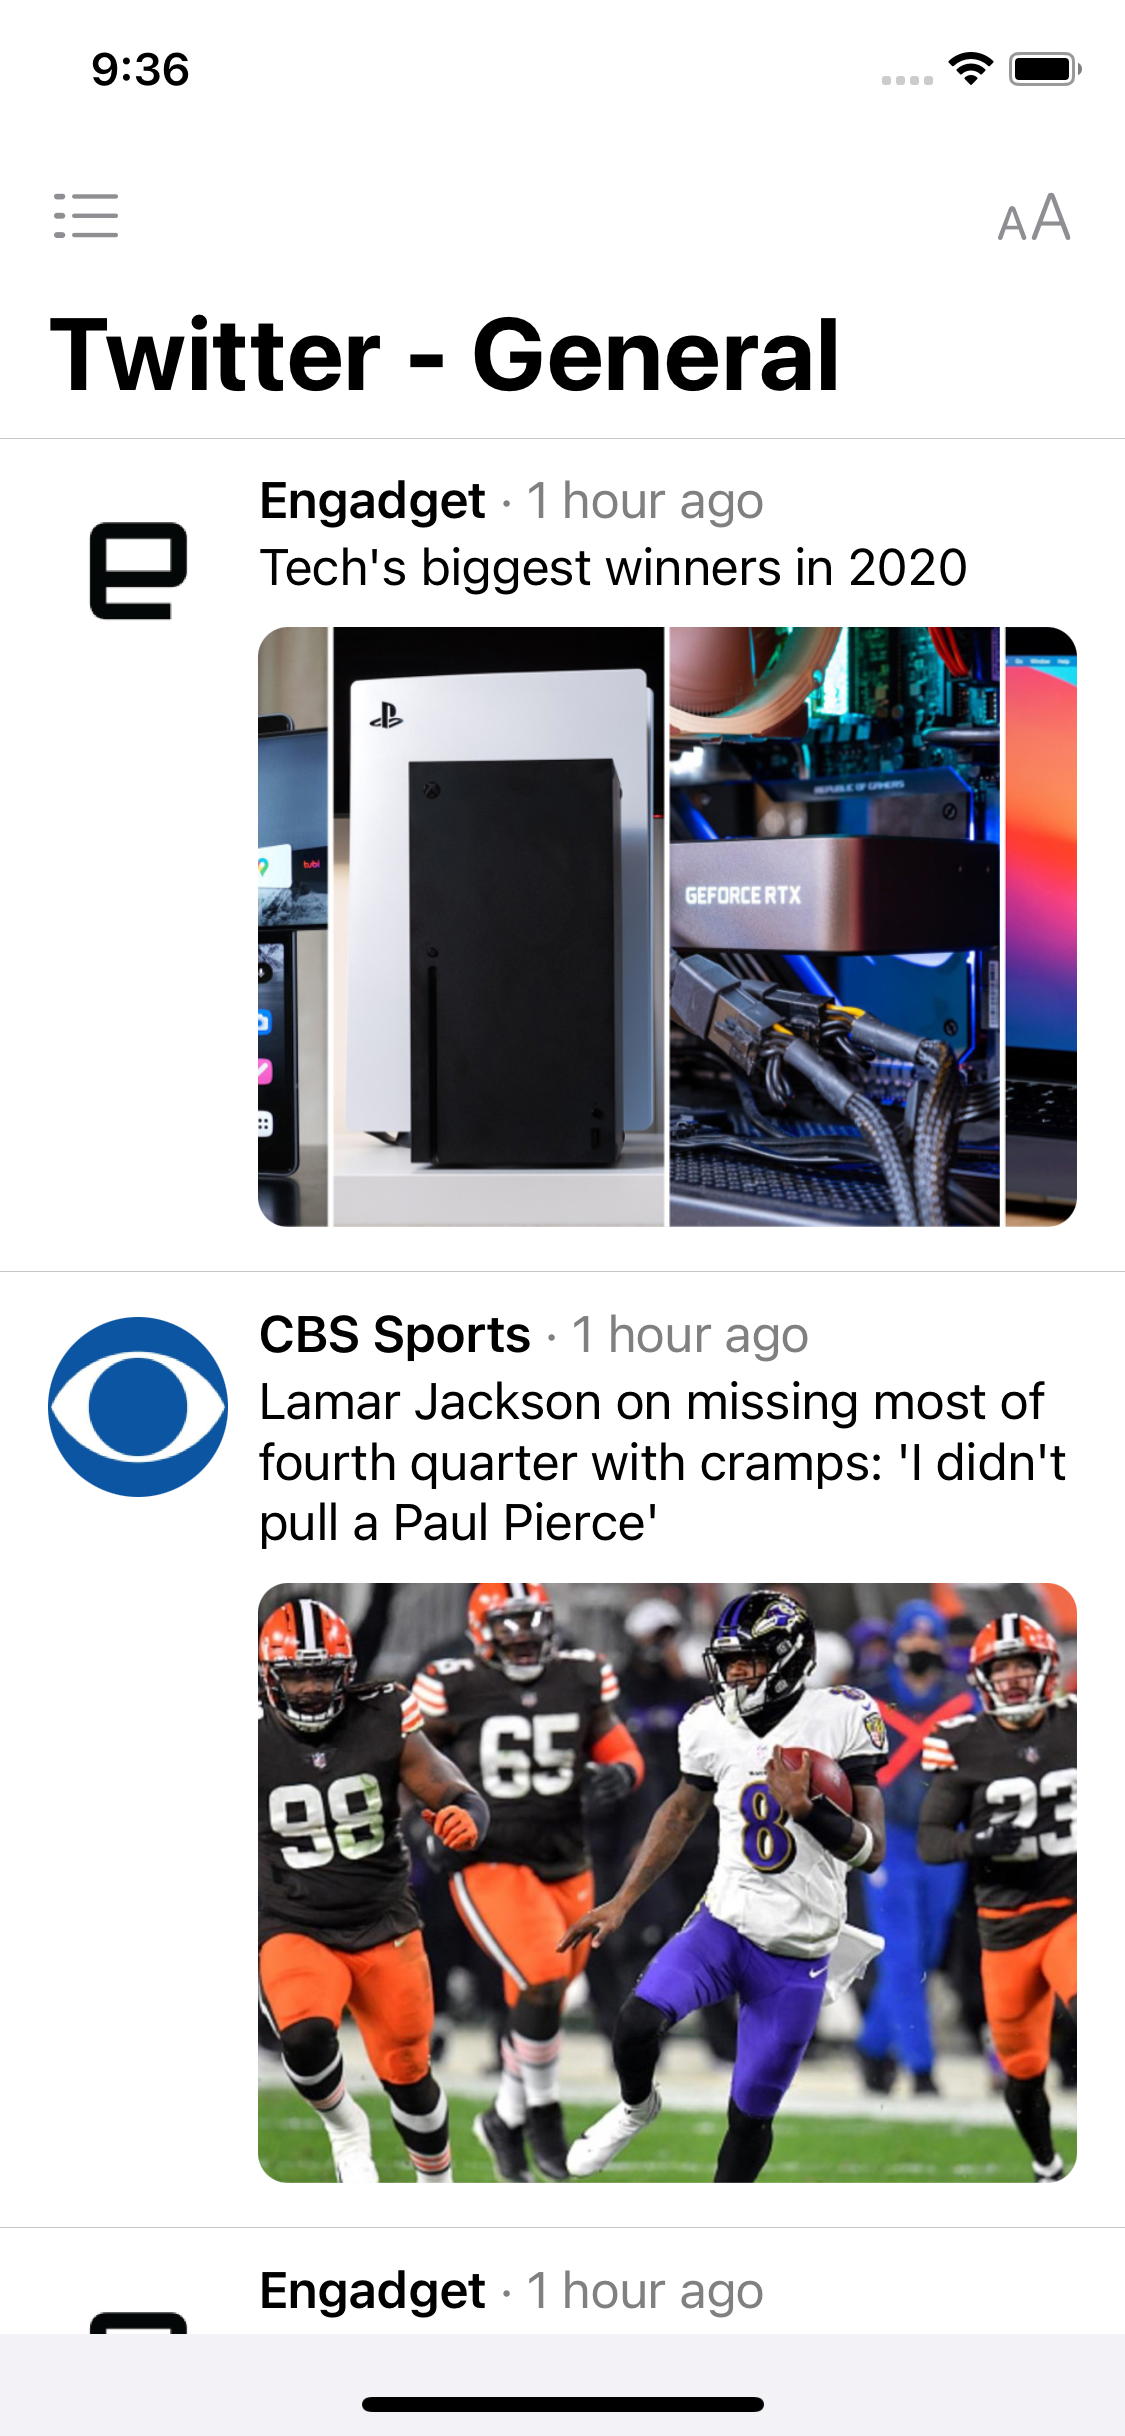
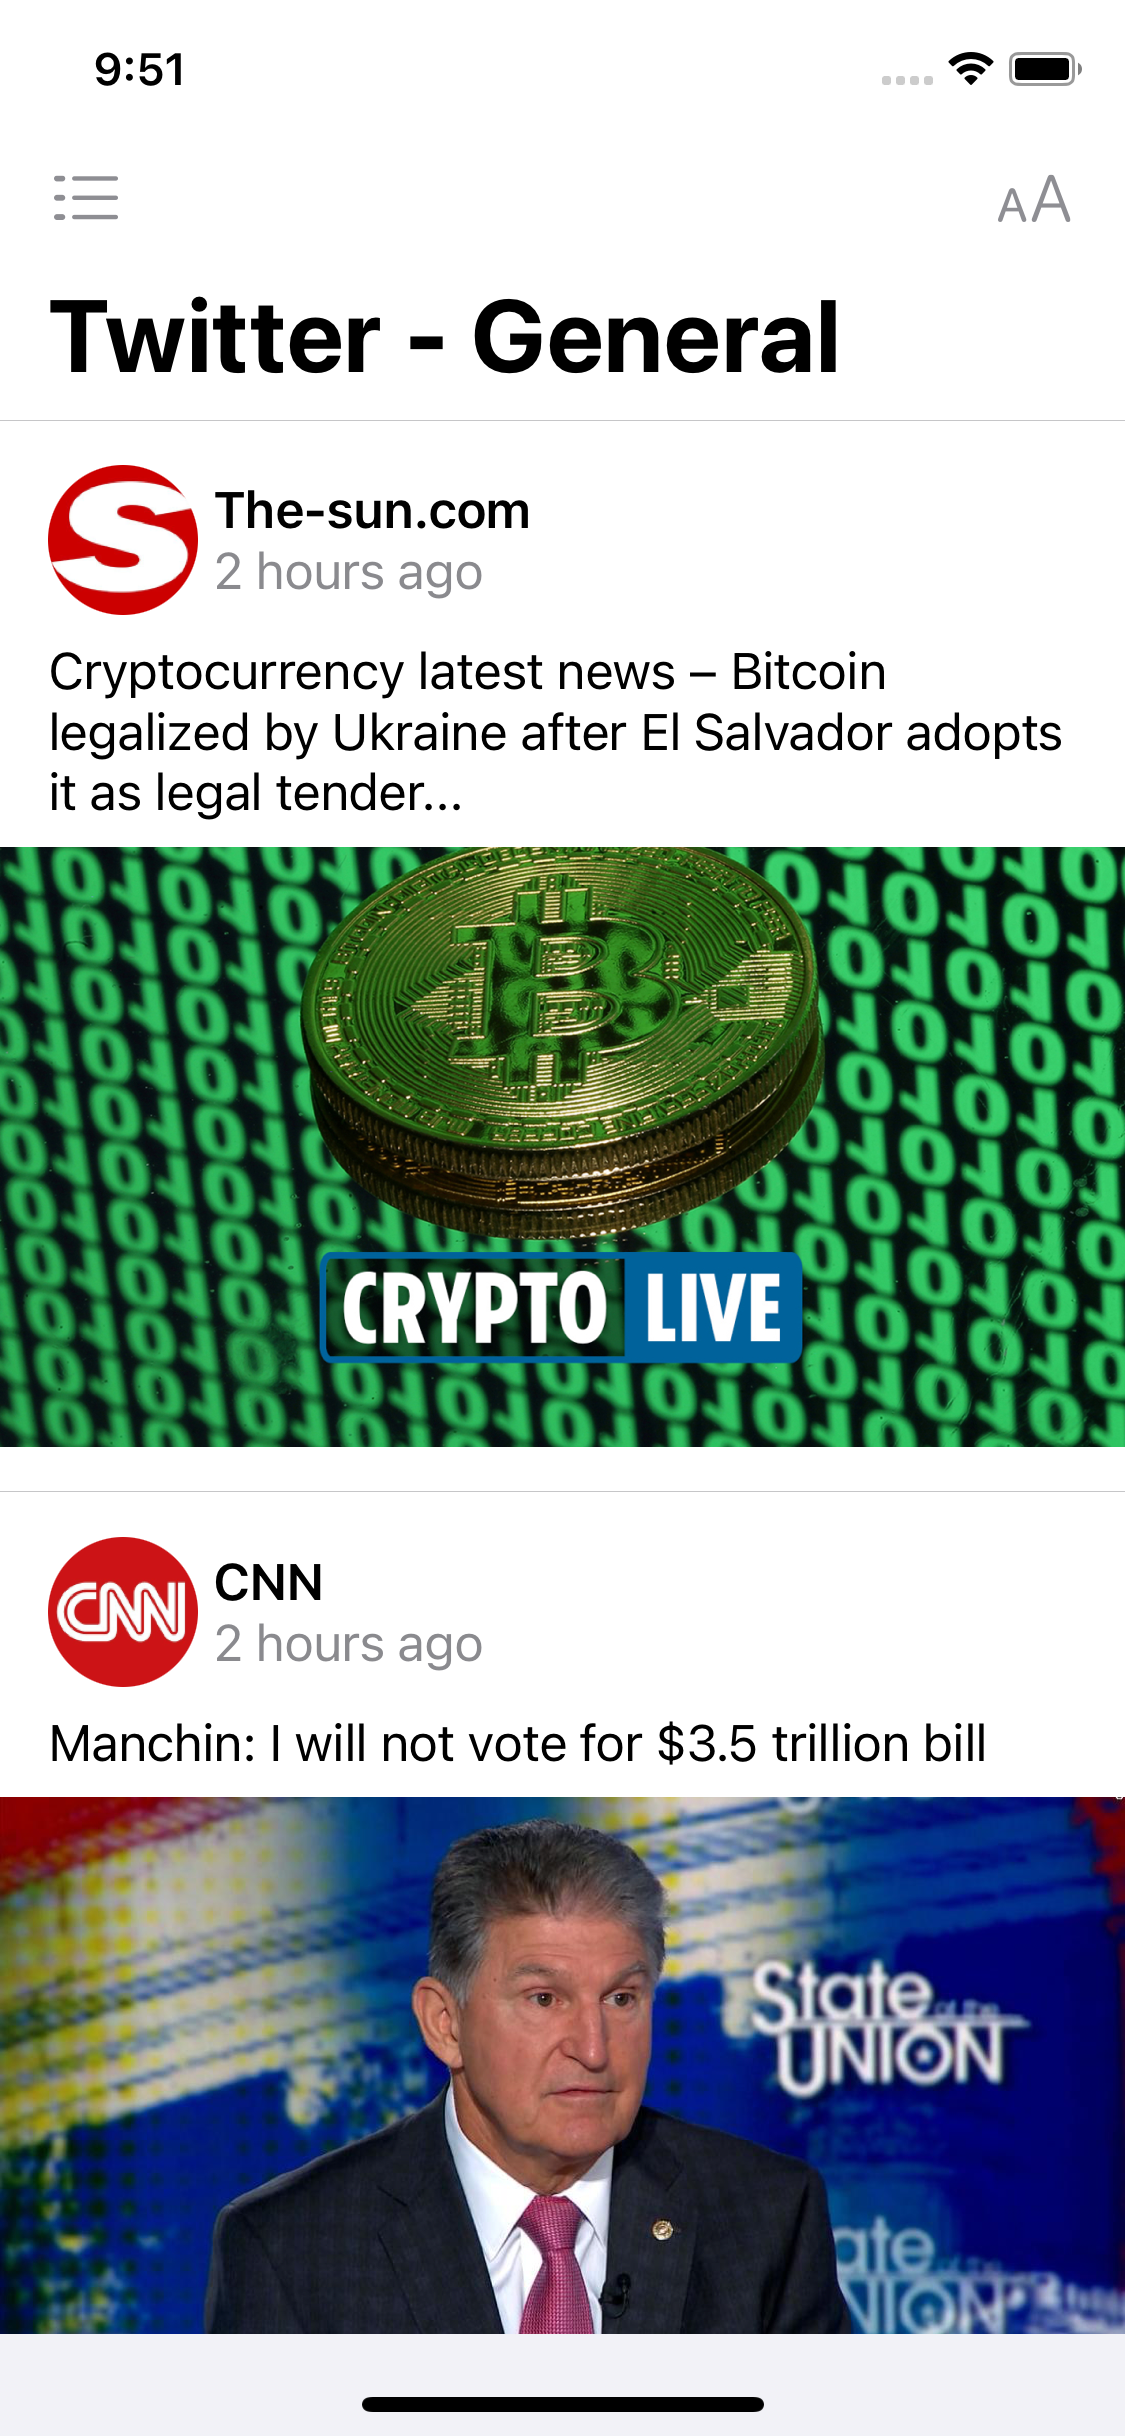
Update TwitterCell.swift
Update layout for full width image https://twitter.com/TwitterSupport/status/1435287486411022337

diff --git a/Xcode/TheNews/Views/Twitter/TwitterCell.swift b/Xcode/TheNews/Views/Twitter/TwitterCell.swift
@@ -7,78 +7,82 @@ import UIKit
 class TwitterCell: NewsCell {
 
     static let identifier: String = "TwitterCell"
-    static let logoSize = CGSize(width: 60, height: 60)
+    static let logoSize = CGSize(width: 50, height: 50)
 
     override func config() {
         super.config()
-
-        articleImageView.layer.cornerRadius = 10
-        articleImageView.layer.masksToBounds = true
 
         logo.backgroundColor = .secondarySystemBackground
         logo.layer.cornerRadius = TwitterCell.logoSize.width / 2
         logo.layer.masksToBounds = true
 
-        [logo, source, articleImageView, title].forEach { item in
+        source.font = .preferredFont(forTextStyle: .headline)
+        ago.textColor = .secondaryLabel
+
+        let topView = UIView()
+
+        [topView, articleImageView, title].forEach { item in
             contentView.addSubviewForAutoLayout(item)
         }
 
+        let rightView = UIView()
+
+        [logo, rightView].forEach { item in
+            topView.addSubviewForAutoLayout(item)
+        }
+
+        [source, ago].forEach { item in
+            rightView.addSubviewForAutoLayout(item)
+        }
+
         let imageHeight: CGFloat = 200
-        let inset: CGFloat = 10
         NSLayoutConstraint.activate([
-            logo.topAnchor.constraint(equalTo: contentView.topAnchor, constant: 15),
-            logo.leadingAnchor.constraint(equalTo: contentView.readableContentGuide.leadingAnchor),
-            logo.widthAnchor.constraint(equalToConstant: TwitterCell.logoSize.width),
-            logo.heightAnchor.constraint(equalToConstant: TwitterCell.logoSize.width),
+            topView.topAnchor.constraint(equalTo: contentView.topAnchor, constant: 15),
+            topView.leadingAnchor.constraint(equalTo: contentView.readableContentGuide.leadingAnchor),
+            topView.trailingAnchor.constraint(equalTo: contentView.readableContentGuide.trailingAnchor),
+            topView.heightAnchor.constraint(equalToConstant: TwitterCell.logoSize.height),
 
-            source.topAnchor.constraint(equalTo: contentView.topAnchor, constant: inset),
-            source.leadingAnchor.constraint(equalTo: logo.trailingAnchor, constant: inset),
-            contentView.readableContentGuide.trailingAnchor.constraint(equalTo: source.trailingAnchor),
-
-            title.topAnchor.constraint(equalTo: source.bottomAnchor, constant: 2),
-            title.leadingAnchor.constraint(equalTo: logo.trailingAnchor, constant: inset),
+            title.topAnchor.constraint(equalTo: topView.bottomAnchor, constant: 8),
+            title.leadingAnchor.constraint(equalTo: contentView.readableContentGuide.leadingAnchor),
             contentView.readableContentGuide.trailingAnchor.constraint(equalTo: title.trailingAnchor),
 
-            articleImageView.topAnchor.constraint(equalTo: title.bottomAnchor, constant: inset),
-            articleImageView.leadingAnchor.constraint(equalTo: logo.trailingAnchor, constant: inset),
-            contentView.readableContentGuide.trailingAnchor.constraint(equalTo: articleImageView.trailingAnchor),
+            articleImageView.topAnchor.constraint(equalTo: title.bottomAnchor, constant: 8),
+            articleImageView.leadingAnchor.constraint(equalTo: contentView.leadingAnchor),
+            contentView.trailingAnchor.constraint(equalTo: articleImageView.trailingAnchor),
             articleImageView.heightAnchor.constraint(equalToConstant: imageHeight),
 
             contentView.bottomAnchor.constraint(equalTo: articleImageView.bottomAnchor, constant: 15)
+        ])
+
+        NSLayoutConstraint.activate([
+            logo.leadingAnchor.constraint(equalTo: topView.leadingAnchor),
+            logo.widthAnchor.constraint(equalToConstant: TwitterCell.logoSize.width),
+            logo.heightAnchor.constraint(equalToConstant: TwitterCell.logoSize.width),
+            logo.centerYAnchor.constraint(equalTo: topView.centerYAnchor),
+
+            rightView.leadingAnchor.constraint(equalTo: logo.trailingAnchor, constant: 5),
+            rightView.trailingAnchor.constraint(equalTo: topView.trailingAnchor),
+            rightView.centerYAnchor.constraint(equalTo: topView.centerYAnchor)
+        ])
+
+        NSLayoutConstraint.activate([
+            source.topAnchor.constraint(equalTo: rightView.topAnchor),
+            source.leadingAnchor.constraint(equalTo: rightView.leadingAnchor),
+            source.trailingAnchor.constraint(equalTo: rightView.trailingAnchor),
+
+            ago.topAnchor.constraint(equalTo: source.bottomAnchor),
+            ago.leadingAnchor.constraint(equalTo: rightView.leadingAnchor),
+            ago.trailingAnchor.constraint(equalTo: rightView.trailingAnchor),
+            ago.bottomAnchor.constraint(equalTo: rightView.bottomAnchor)
         ])
     }
 
     func load(article: Article, downloader: ImageDownloader) {
         title.text = article.titleDisplay
-        source.attributedText = article.twitterAttributedFirstLine
+        source.text = article.source?.name
+        ago.text = article.ago
 
         load(urlString: article.urlToImage, downloader: downloader)
-    }
-
-}
-
-private extension Article {
-
-    var twitterAttributedFirstLine: NSAttributedString {
-        guard let name = source?.name else { return NSAttributedString() }
-
-        let nameAttribute: [NSAttributedString.Key: Any] = [
-            .font: UIFont.boldSystemFont(ofSize: 17)
-        ]
-        let a = NSMutableAttributedString(string: name, attributes: nameAttribute)
-
-        var str = ""
-        if let ago = ago {
-            str = " · \(ago)"
-        }
-        let titleAttribute: [NSAttributedString.Key: Any] = [
-            .font: UIFont.systemFont(ofSize: 17),
-            .foregroundColor: UIColor.gray
-        ]
-        let b = NSAttributedString(string: str, attributes: titleAttribute)
-        a.append(b)
-
-        return a
     }
 
 }
